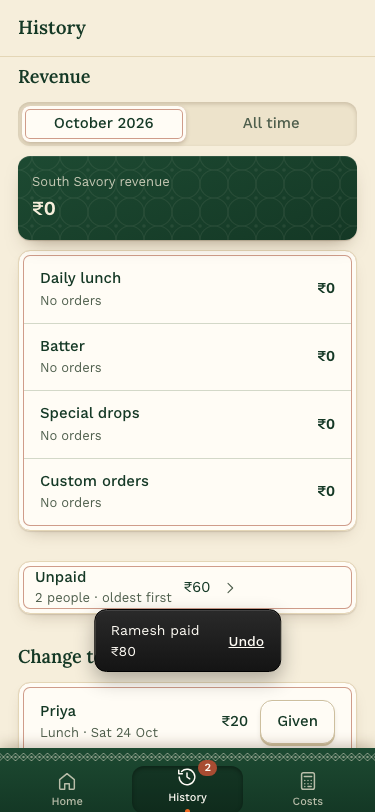
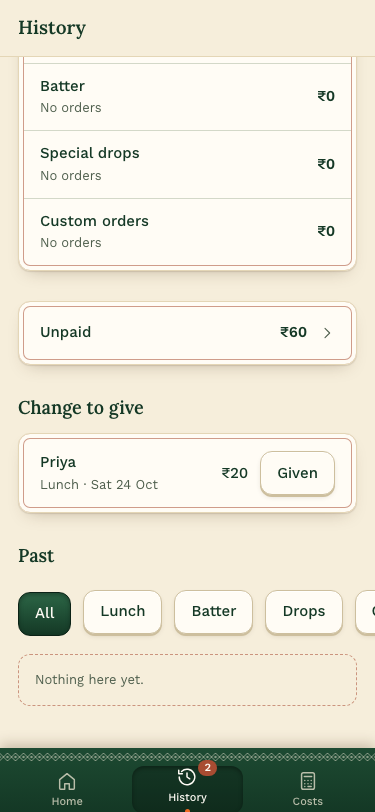
History: Unpaid row matches the other rows, sorted by amount owed
Same row style, bold right-aligned total, no extra label. People who
owe the most come first.

diff --git a/site/public/index.html b/site/public/index.html
@@ -240,7 +240,7 @@ input:focus{outline:2px solid var(--hue);outline-offset:-1px;border-color:transp
 .toast button{color:var(--on-primary);font-weight:500;text-decoration:underline;padding:6px 8px}
 
 .ferr{color:var(--negative);font-size:14px;margin:8px 0 0}
-.acc>summary{list-style:none;cursor:pointer}
+.acc>summary{list-style:none;cursor:pointer;display:block}
 .acc>summary::-webkit-details-marker{display:none}
 .acc>summary .chev{transition:transform .2s}
 .acc[open]>summary .chev{transform:rotate(90deg)}
@@ -761,7 +761,7 @@ function owedGroups(){
     });
   });
   return Object.keys(g).map(function(k){ var x=g[k]; x.rows.sort(function(a,b){return byDate(a.ev,b.ev);}); return x; })
-    .sort(function(a,b){ return a.oldest<b.oldest?-1:a.oldest>b.oldest?1:(a.oldestT-b.oldestT)||(a.name<b.name?-1:1); });
+    .sort(function(a,b){ return (b.total-a.total)||(a.oldest<b.oldest?-1:a.oldest>b.oldest?1:(a.oldestT-b.oldestT))||(a.name<b.name?-1:1); }); /* who owes most first */
 }
 function changeRows(){
   var out=[];
@@ -882,7 +882,7 @@ function viewHome(){
   $app.innerHTML='<header class="brandhead"><h1 style="margin:0">'+SS_WORD+'</h1></header>'+
     '<main class="page">'+saveWarning()+((SYNC.state==="offline"&&Object.keys(SYNC.pending).length)||SYNC.state==="signedout"?'<p class="notice neutral" style="margin:0 0 12px" id="syncState">'+esc(syncText())+'</p>':'')+'<p class="dateline">'+fmtDate(t)+(isMonday(t)?" · Monday, kitchen off":"")+'</p>'+
     '<div class="tiles">'+tile("Daily lunch","#/lunch",lunchTile)+tile("Batter","#/batter",bt)+tile("Special drops","#/drops",dt)+tile("Custom orders","#/custom",ct)+'</div>'+
-    (og.length?'<a class="card owedrow" href="#/history"><span><span style="font-weight:500">Unpaid</span><span class="sub" style="display:block;margin:0">'+og.length+' '+(og.length===1?"person":"people")+' · oldest '+relLower(og[0].oldest)+'</span></span><span class="big num">'+rupee(owed)+'</span>'+I.chev+'</a>':'')+
+    (og.length?'<a class="card owedrow" href="#/history"><span><span style="font-weight:500">Unpaid</span><span class="sub" style="display:block;margin:0">'+og.length+' '+(og.length===1?"person":"people")+' · oldest '+relLower(og.reduce(function(m,g){return g.oldest<m?g.oldest:m;},og[0].oldest))+'</span></span><span class="big num">'+rupee(owed)+'</span>'+I.chev+'</a>':'')+
     (ch.length?'<a class="card owedrow" href="#/history"><span><span style="font-weight:500">Change to give</span><span class="sub" style="display:block;margin:0">'+ch.length+' '+(ch.length===1?"person":"people")+'</span></span><span class="big num" style="font-weight:500">'+rupee(ch.reduce(function(a,r){return a+Number(r.o.changeDue);},0))+'</span>'+I.chev+'</a>':'')+
     '</main>';
   tabbar("home");
@@ -1864,7 +1864,7 @@ function viewHistory(q){
       '<div class="card strip num" style="margin-top:10px;grid-template-columns:1fr"><div><div class="lab">South Savory revenue</div><div class="v money">'+rupee(rv.total)+'</div></div></div>'+
       '<div class="list" style="margin-top:10px">'+revRows+'</div>'+
       '</div>'+
-    '<div class="section"><details class="acc" id="owedAcc"'+(histOwedOpen?' open':'')+' ontoggle="histOwedOpen=this.open"><summary class="card owedrow" style="margin-top:0"><span class="grow"><span style="font-weight:500;display:block">Unpaid</span><span class="sub" style="display:block;margin:0">'+(og.length?plural(og.length,"person","people")+' · oldest first':'Nobody owes anything')+'</span></span><span class="amt num">'+(og.length?rupee(owedSum):'')+'</span>'+I.chev+'</summary>'+(og.length?owedHtml:'')+'</details></div>'+
+    '<div class="section"><details class="acc" id="owedAcc"'+(histOwedOpen?' open':'')+' ontoggle="histOwedOpen=this.open"><summary class="list"><span class="row"><span class="grow"><span class="t1" style="display:block">Unpaid</span>'+(og.length?'':'<span class="t2" style="display:block">Nobody owes anything</span>')+'</span><span class="amt num">'+(og.length?rupee(owedSum):'')+'</span>'+I.chev+'</span></summary>'+(og.length?owedHtml:'')+'</details></div>'+
     '<div class="section"><h2>Change to give</h2>'+chHtml+'</div>'+
     '<div class="section"><h2>Past</h2><div class="filters" role="group" aria-label="Filter">'+fl.map(function(x){return '<button class="chip" aria-pressed="'+(f===x[0])+'" onclick="histSet(\'f\',\''+x[0]+'\')">'+x[1]+'</button>';}).join("")+'</div>'+
       (past.length?'<div class="list" style="margin-top:10px">'+past.map(function(ev){ var st=eventStats(ev);
